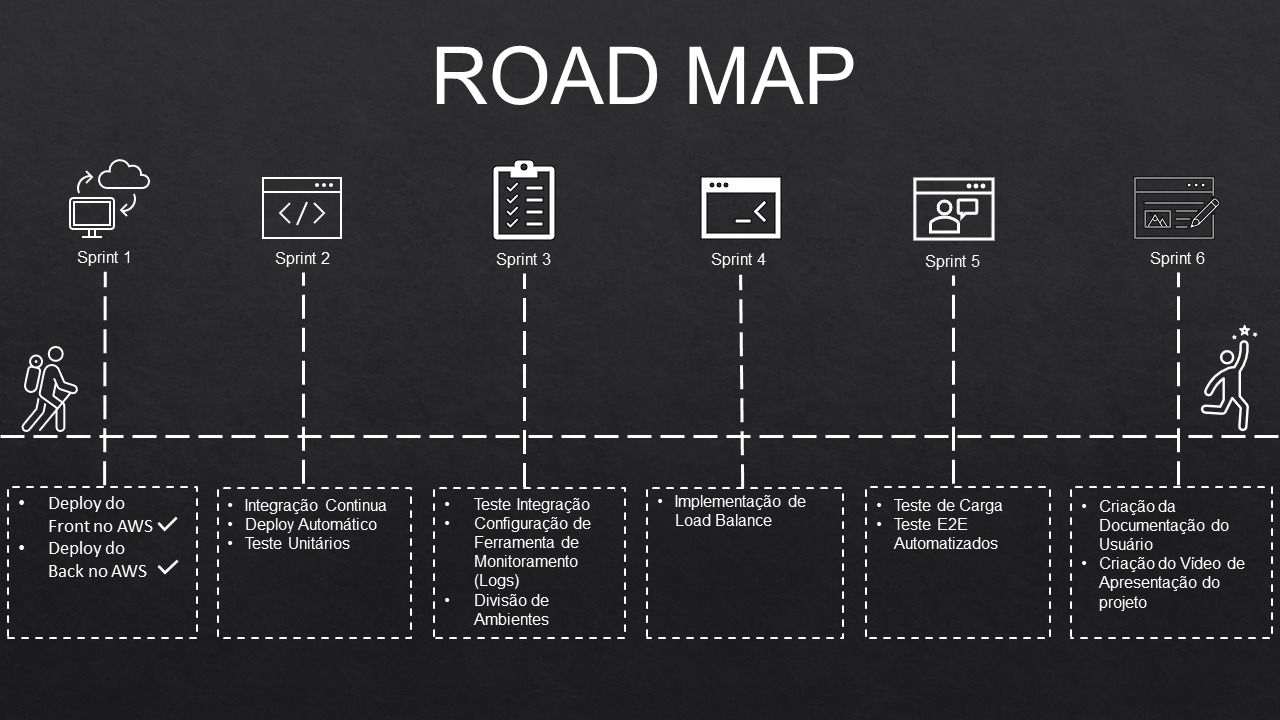
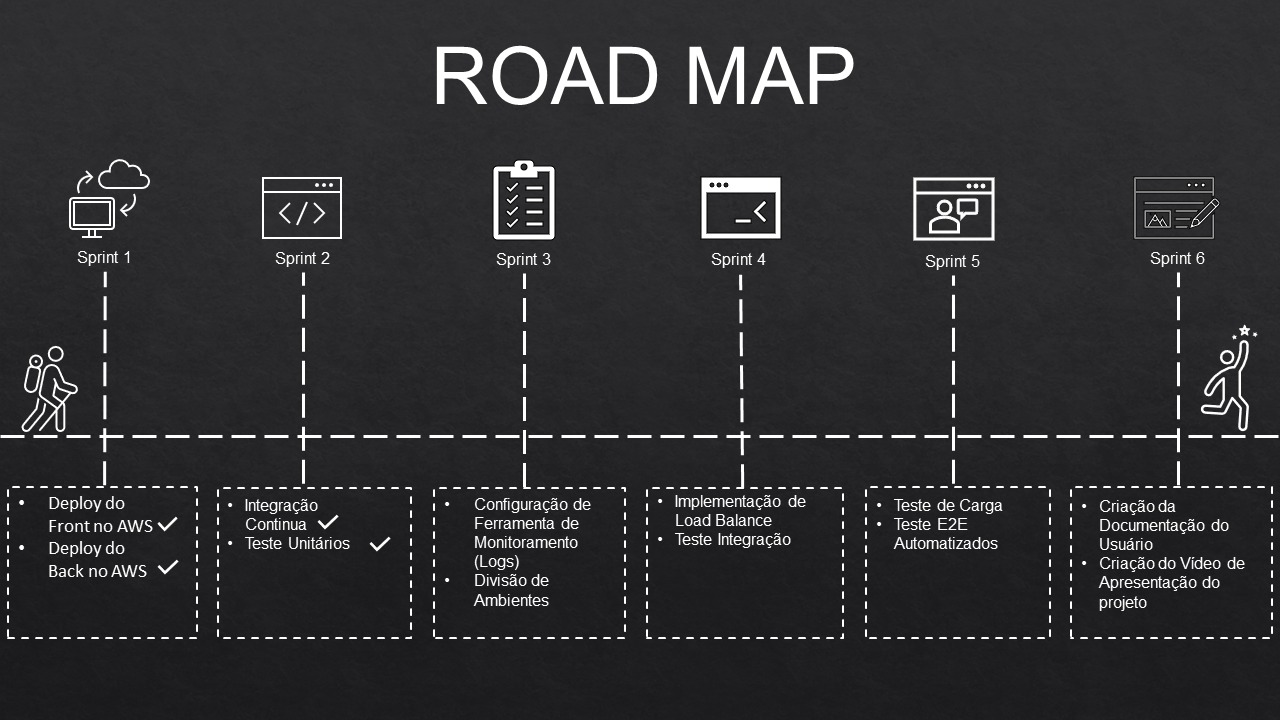
Documentação da sprint02

Changed region(s): [[0.375, 0.6722, 0.4688, 0.8861], [0.1875, 0.6722, 0.3125, 0.7639], [0.5312, 0.7333, 0.625, 0.7639]]

diff --git a/README.md b/README.md
@@ -1,24 +1,62 @@
-# Antenas DEVOPS
+# Laboratório de Projeto de Banco de Dados V – 2020.2
+Este repositório é utilizado para compartilhar as entregas para a disciplina de Laboratório de Projeto de Bando de Dados V, ministrada pelo professor Eduardo Sakaue. 
+O objetivo do projeto é implementar um conjunto de melhores práticas de desenvolvimento de software (Dev) e operações de TI (Ops), DevOps para disponibilizar a aplicação web Antenas.
 
-Este repositório é utilizado para mostrar as entregas para a disciplina de Laboratório de Projeto de Bando de Dados onde iremos implementar um conjunto de melhores práticas de desenvolvimento de software (Dev) e operações de TI (Ops) que é comumente chamado DevOps.
+##O que é o Projeto Antenas
+Projeto desenvolvido pelos alunos da FATEC - Professor Jessen Vidal, para a matéria Padrões de Projeto, ministrada pelo Professor Giuliano. 
+O software é uma iniciativa para aproximar os alunos das necessidades do mercado de trabalho. Consiste em uma aplicação web onde empresas da área de tecnologia propõem desafios, o conteúdo é avaliado pelos professores da Fatec e então enviado para que os alunos proponham soluções. 
 
-Professor: Eduardo Sakaue
+## Equipe:
+Bruno Akira Ota;
+Gabriel Pereira Bastos;
+Leticia Macedo Prudente de Carvalho;
+Matheus Rocha da Silva;
+Thaís Bitencourt de Meneses;
+Vanessa Bessa Diogenes Castellano; e
+Yan Rodrigues de Azevedo.
 
-Alunos:
 
-- Bruno Akira Ota
-- Gabriel Pereira Bastos
-- Leticia Macedo Prudente
-- Matheus Rocha da Silva
-- Thaís Bitencourt de Meneses
-- Vanessa Bessa Diogenes Castellano
-- Yan Rodrigues de Azevedo
 
-Repositórios:
+##Repositórios:
 
 Front-end: <https://github.com/mrocha98/antenas-front>
 
 Back-end: <https://github.com/mrocha98/antenas-back>
+
+##Acesso à aplicação:
+http://18.231.13.0:3000/
+
+##Acesso para desenvolvimento:
+É necessário instalar o docker:
+https://docs.docker.com/get-docker/
+https://docs.docker.com/compose/install/
+
+O nodeJS, na versão 12 ou posterior:
+https://nodejs.org/en/download/
+
+E utilizar uma IDE para visualizar o código; recomendamos o VSCode: 
+https://code.visualstudio.com 
+
+
+##Tecnologias:
+
+### AWS (EC2)
+Utilizado para hospedar e disponibilizar o software online para o cliente. Escolhemos a plataforma pela popularidade, por conta da escalabilidade de servidores e pela fácil integração com os demais serviços que a empresa oferece.
+
+### GitHub
+Aplicação web utilizada para o versionamento e centralização do projeto.
+
+### Docker-compose
+Utilizado para criar imagem do mongobd para que a infraestrutura não precise ser configurada. Foi utilizado para que os participantes do projeto não tivessem problemas de compatibilidade de ambiente. 
+
+### Jest
+Estrutura de teste de JavaScript, utilizada para fazer testes unitários e garantir que a aplicação está funcionando de acordo com os requisitos do negócio. Foi escolhido por ser open source, não necessitar configuração manual, possuir relatório de código de fácil acesso e pela velocidade, pois roda testes em paralelo. 
+
+### Cypress
+Framework de testes automatizados end-to-end usando JavaScript, utilizada para refletir as ações dos usuários. A ferramenta foi escolhida por ser open source, possuir recarga em tempo real, espera automática e ser responsivo com aplicações da web.
+
+### MongoDB Atlas
+Banco de dados em nuvem para MongoDB. A ferramenta foi escolhida por estar disponível via web e porque a infraestrutura, manutenção das máquinas e segurança não precisam de configuração manual.
 
 ## Road Map
 
@@ -26,50 +64,35 @@ Back-end: <https://github.com/mrocha98/antenas-back>
 
 ## Entregas
 
-### Sprint 01
+### Sprint 01 – 20/09/2020
 
-- Deploy do back e do front na [AWS EC2](https://aws.amazon.com/ec2/?ec2-whats-new.sort-by=item.additionalFields.postDateTime&ec2-whats-new.sort-order=desc)
-- [Criação de um arquivo docker-compose integrando MongoDB e NodeJs](https://github.com/mrocha98/antenas-back/blob/master/docker-compose.yml) para utilizarmos em desenvolvimento
-- Criação de um banco em nuvem no [MongoDB Atlas](https://www.mongodb.com/cloud/atlas)
+- Deploy do Frontend e Backend: disponibilizar aplicação em ambiente remoto na [AWS EC2] (https://aws.amazon.com/ec2/?ec2-whats-new.sort-by=item.additionalFields.postDateTime&ec2-whats-new.sort-order=desc) ;
+- [Configuração do arquivo Docker-compose]: integrar MongoDB e NodeJs para utilizar em ambiente de desenvolvimento; e (https://github.com/mrocha98/antenas-back/blob/master/docker-compose.yml) para utilizarmos em desenvolvimento
+- Criação do banco em nuvem:  disponibilizar a base de dados em ambiente remoto, no [MongoDB Atlas](https://www.mongodb.com/cloud/atlas) .
 
-### Sprint 02
+### Sprint 02 – 04/10/2020
+- Testes unitários: utilizado para verificar a menor parte testável da aplicação, garantindo que o software esteja de acordo com as regras de negócio, minimizando o retrabalho e tornando as correções mais ágeis.
+- Integração contínua: fará com que cada alteração passe pelos testes antes de efetivar o commit, trazendo mais segurança e agilidade ao processo de desenvolvimento já que os testes são executados automaticamente.
 
-TODO
 
-### Sprint 03
+### Sprint 03 – 18/10/2020
+- Divisão dos ambientes em homologação/desenvolvimento, QA/Testes e Produção;
+- Integração da ferramenta de monitoramento Zabbix para gerar logs; e
+- Deploy automático.
 
-TODO
 
-### Sprint 04
+### Sprint 04 – 01/11/2020
+- Testes de integração automatizado; e
+- Implementação do load balance.
 
-TODO
 
-### Sprint 05
 
-TODO
+### Sprint 05 – 15/11/2020
+- Testes de carga; e
+- Testes E2E (end-to-end) automatizado.
 
-### Sprint 06
 
-TODO
+### Sprint 06 – 29/11/2020
+- Documentação de funcionalidades para usuários 
+- Vídeo de apresentação que será apresentado na feira de soluções. 
 
-## Ferramentas utilizadas na disciplina
-
-### AWS (EC2)
-
-TODO
-
-## GitHub Actions
-
-TODO
-
-### Docker
-
-TODO
-
-## Jest
-
-TODO
-
-## Cypress
-
-TODO
